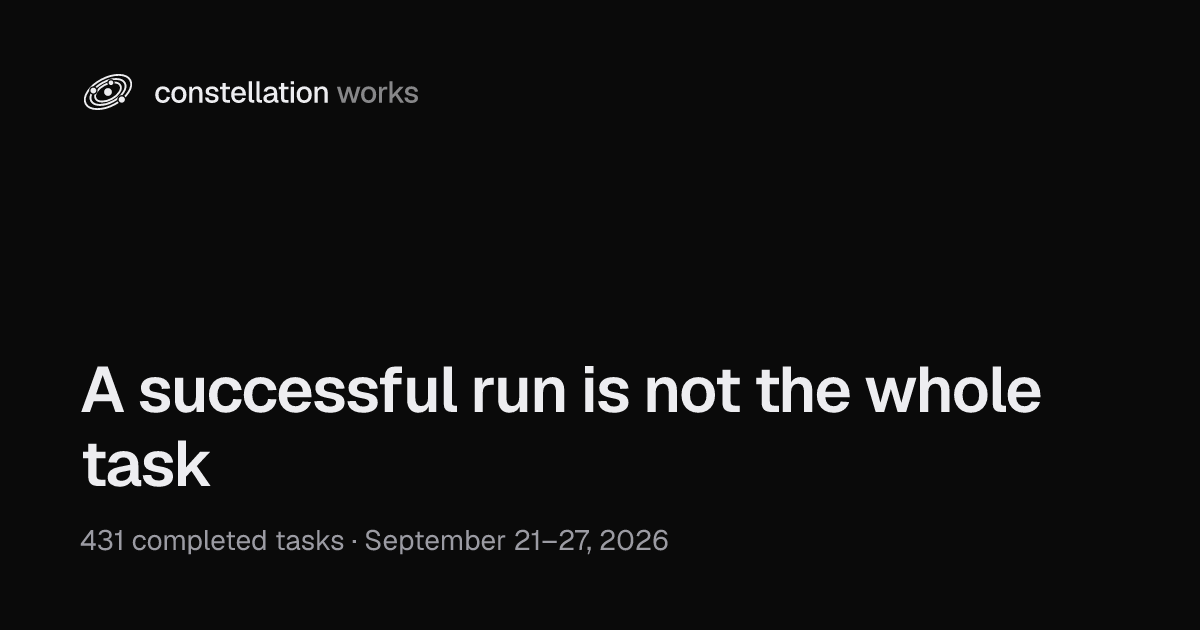
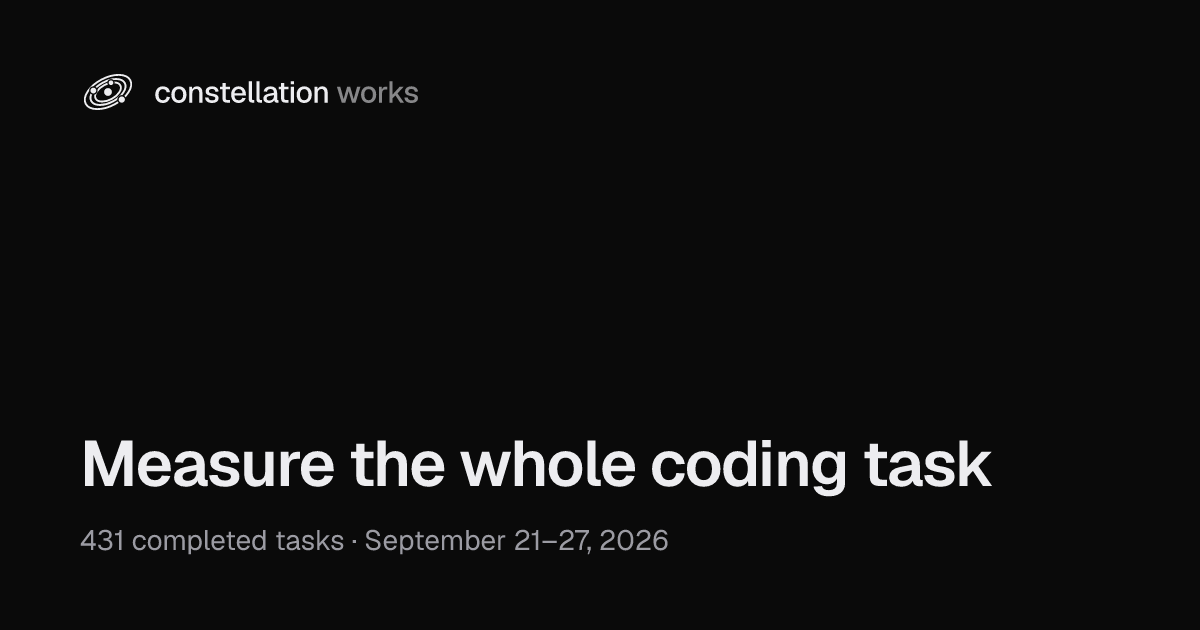
chore: Give the completed-task measurement article a clear takeaway [ORB-13758]
Planned-By: codex
Orchestrated-By: sol

Changed region(s): [[0.0617, 0.6937, 0.8325, 0.7841], [0.0617, 0.573, 0.8633, 0.6635]]

diff --git a/notes/successful-task-run-history/index.md b/notes/successful-task-run-history/index.md
@@ -1,6 +1,6 @@
 ---
-title: A successful run is not the whole task
-summary: 20 of 431 completed tasks had earlier delivery runs. Those runs added 32% to that group's recorded pipeline time, but only 1.5% across the full cohort. Recovery also happened inside successful runs.
+title: Measure the whole coding task
+summary: Count every recorded attempt when measuring a completed coding task. Earlier runs added 1.5% to our cohort's pipeline time, with the increase concentrated in 20 of 431 tasks.
 status: published
 date: 2026-10-02
 image: card.png
@@ -8,101 +8,70 @@ author: Constellation Works
 tags: operating data, recovery, measurement
 ---
 
-**Twenty of 431 completed tasks had earlier delivery runs.** Counting those runs
-adds 2.6 hours to the group's 8.2 hours of final successful runs: 32% more recorded
-pipeline time. Across all 431 tasks, the increase is much smaller, 1.5%.
+**When you measure how much work a coding agent task took, include every recorded
+attempt for that task.** The final successful run leaves out time spent on
+earlier attempts.
 
-These are tasks Constellation Works completed while building
-[Orbit](https://orbit-cli.com), a local-first runtime for coding agents, during
-September 21–27, 2026. The records were read on September 30, with an observation
-cutoff of September 30 at 00:00 UTC. This is one operator's work, not a benchmark.
+A hypothetical example: a failed attempt takes 10 pipeline minutes, then a
+successful attempt takes 20. The completed task took 30 recorded pipeline
+minutes. Reporting only the success would show 20. This illustrates the counting
+rule; it is not an observation from our data.
 
-The question is how much work disappears if we look only at a task's successful
-delivery run. A *task* is the unit of requested work. A *delivery run* here is one
-execution of Orbit's pull-request pipeline, which includes implementation, tool
-calls, review gates and delivery steps. One task can have several runs.
+## What the records showed
 
-## Count the earlier runs
+Across **431 completed tasks**, earlier delivery runs added **1.5%** to recorded
+pipeline time: 173.5 hours for final successful runs became 176.1 hours when
+earlier runs were included. The overall difference was small.
 
-For each task, we compared its last successful delivery run with all its recorded
-delivery runs begun before it first reached `done`. Runs must have finished by
-the observation cutoff and have a recorded duration. The final run's full
-duration counts, including its last steps after the task changed state.
+It was concentrated in **20 of those 431 tasks**. Their earlier runs added
+2.6 hours to 8.2 hours of final successful runs, bringing their total to
+10.8 hours: **32% more** for that subset. This is a ratio of group totals,
+not a typical task's increase; the median individual increase within the subset
+was 8.4%. The other 411 tasks had one delivery run each.
 
-| Tasks | Count | Final successful runs | Earlier runs | All delivery runs |
-|---|--:|--:|--:|--:|
-| One delivery run | 411 | 165.3 h | 0.0 h | 165.3 h |
-| More than one delivery run | 20 | 8.2 h | 2.6 h | 10.8 h |
-| **All included tasks** | **431** | **173.5 h** | **2.6 h** | **176.1 h** |
+The 28 earlier runs ended as 8 failed, 11 interrupted and 9 cancelled. A
+deliberate cancellation still belongs in the task's recorded time.
 
-These are **summed pipeline hours**, not hours elapsed on a clock. Runs can
-overlap, and pipeline time includes waiting for tools and gates. It is not a
-measure of model compute or hands-on human time.
+Recovery can also happen inside a successful run. Twenty-eight final successes
+(6.5%) recorded a recovery call. Across all included runs, the 36 recorded
+recovery calls took 2.1 hours, already included in the pipeline totals. Adding
+that time again would double-count it.
 
-The twenty tasks account for 48 runs: twenty final successes and 28 earlier runs.
-The earlier runs ended as 8 `failed`, 11 `interrupted` and 9 `cancelled`.
-Cancellations still consumed time, even when they were deliberate.
+## Apply this to your own reports
 
-The 32% is a ratio of group totals: earlier-run time divided by final-run time
-for the same twenty tasks. It is not the median task's increase. The median of
-their individual increases is 8.4%, so the time is unevenly distributed. It also
-does not mean that all work takes 32% longer: only 20 of 431 tasks, 4.6%, had
-earlier delivery runs in this cohort.
+- Group runs by stable task identity, including fresh submissions for the same
+  task, rather than relying only on explicit retry links.
+- Include earlier failed, interrupted and cancelled attempts, with a stated
+  cutoff and rules for incomplete records.
+- Count each pipeline run once. Exclude outer scheduling wrappers and do not
+  add nested recovery time again.
+- Report the overall total alongside the subset with earlier attempts. A large
+  increase for that subset can coexist with a small overall difference.
+- Keep summed pipeline duration separate from elapsed wall time, human time,
+  model compute and dollars. Runs can overlap; their duration includes tools,
+  review gates and waiting.
 
-Nor are all 28 earlier runs documented retries. Sixteen included run records
-carry an explicit `retry_source_run_id`. We grouped by task identity so that a
-freshly submitted run for the same task still counts, and call the result
-*earlier runs* rather than treating every pair as a proven retry lineage.
+Orbit records delivery runs against task identities and links agent invocations
+to tasks. That let us collect earlier runs even when they were fresh submissions
+rather than explicit retries, and identify recovery within a run. If you want
+to inspect or try that approach, start with the
+[Orbit repository](https://github.com/constellation-works/orbit).
 
-## Recovery can fit inside a successful run
+## Scope of the evidence
 
-Twenty-eight of the 431 final successful runs, 6.5%, recorded a recovery call.
-A `success` state therefore does not imply that the pipeline finished without
-recovery.
+These records cover one operator at Constellation Works building Orbit, for
+tasks first reaching `done` during September 21–27, 2026. Of 450 such tasks,
+19 had no successful PR-pipeline run by the September 30, 2026, 00:00 UTC
+cutoff and were excluded, leaving 431. We count eligible PR-pipeline runs begun
+before first completion and finished before the cutoff, including the final
+run's full duration.
 
-Across all 459 included delivery runs, there are 36 recorded calls to the two
-recovery activities checked here: 28 to `step_failure_recovery` and 8 to
-`pr_conflict_recovery`. Their recorded durations sum to 2.1 hours. That time is
-already inside the pipeline totals above; adding it again would double-count it.
-Eight of the runs with recorded recovery were earlier runs; the other 28 were
-final successes.
+This completed-task selection excludes still-open work and unsuccessful work
+without a later success. Planning, human intervention, gaps between attempts,
+other pipelines and later fixes are outside the totals. Telemetry and provider
+cost coverage are incomplete. These figures do not establish change quality,
+benchmark models or crews, or support a dollar estimate or an adoption claim.
 
-Invocation coverage has limits. Twenty-seven included runs have no matching
-implementation invocation, including one final success. Missing telemetry is
-not evidence that no agent worked. Only 168 of 432 matching implementation
-invocations have a provider-reported cost, and none of the 36 recovery calls do.
-These records support a pipeline-time account, not a complete dollar bill.
-
-## What this measures
-
-The store records 450 tasks first reaching `done` during the week. Nineteen have
-no successful pull-request-pipeline run by the cutoff and are excluded, leaving
-431. A task marked `done` or a run marked `success` is a workflow outcome; neither
-establishes that the change is free of later regressions.
-
-The included tasks are 88 low, 166 medium, 174 hard and 3 extra-hard, using the
-complexity recorded when read. Models changed during the period. The comparison
-uses each task's own final run as its baseline; it does not rank crews or models,
-or estimate what the same work would have taken under a different policy.
-
-We count only the PR pipeline. Its outer scheduling wrappers are excluded, and
-each included run carries exactly one task. Planning, separate local pipelines,
-human intervention, idle time between runs and later regression fixes are outside
-these totals. One included run began before the cohort week; it belongs to a task
-that completed within it.
-
-The useful distinction is between *a successful run* and *the recorded work for
-a completed task*. Earlier runs added little to this cohort's total, but mattered
-for the tasks that had them. Recovery inside the final run is another part of
-that record, even when the outcome is successful.
-
-## Data and method
-
-- [aggregate.json](aggregate.json): counts, durations, exclusions, model mix and
-  coverage diagnostics. No task IDs, run IDs, workspace names, local paths,
-  prompts or logs are included.
-- [method.md](method.md): cohort rules, time definitions, attribution checks and
-  limitations.
-- [measure.py](measure.py): the read-only procedure that produced the aggregate.
-  It requires access to an operator's own stores; the underlying private records
-  are not published.
+The [aggregate](aggregate.json), [detailed method](method.md) and
+[read-only measurement script](measure.py) provide the counts, selection rules
+and coverage limits. The underlying private records are not published.
